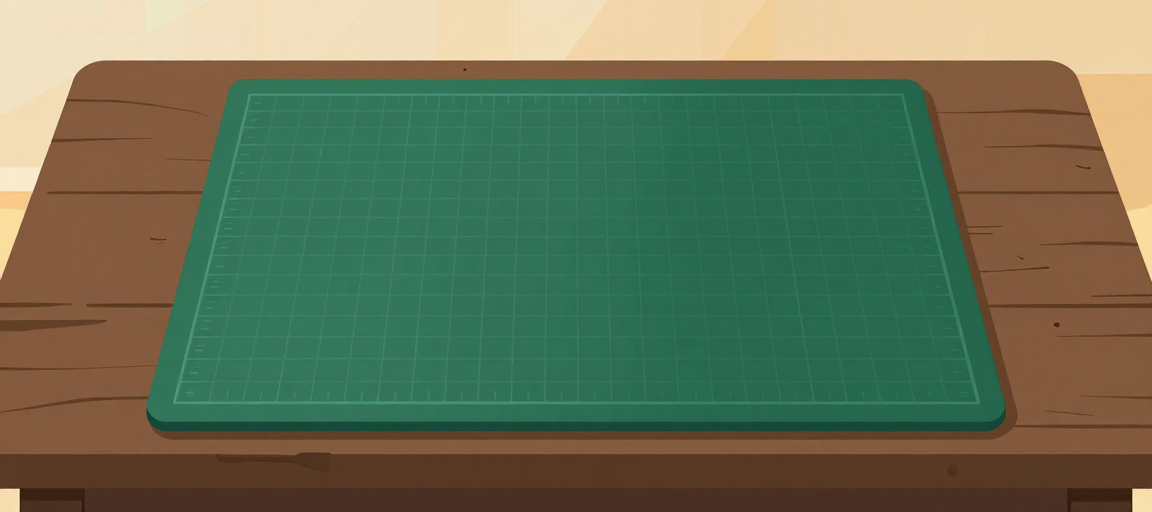
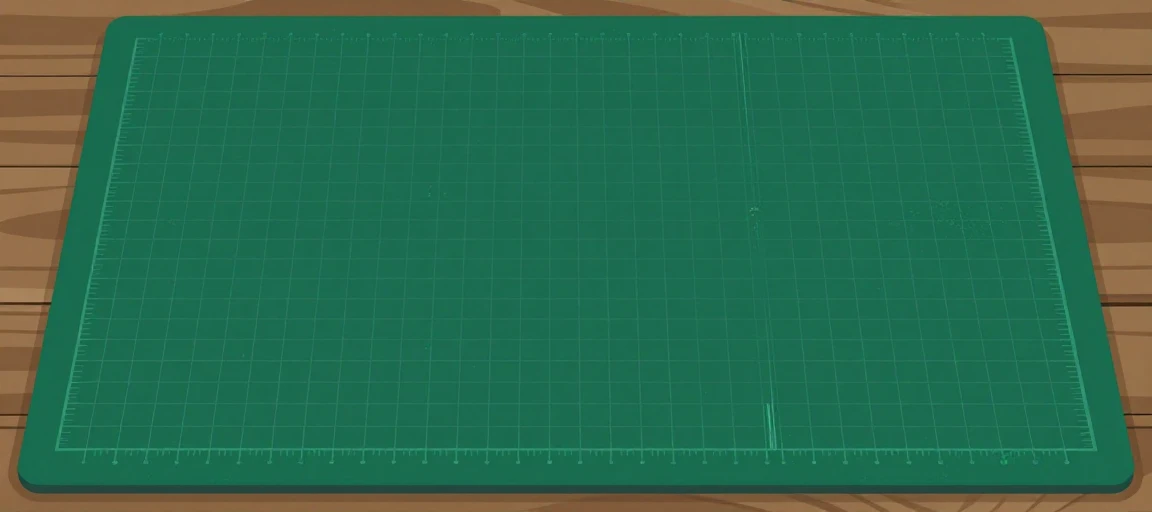
Tisch in Draufsicht, Werkzeuge eine Spur kleiner
Der neue Tisch ist eine echte Draufsicht: die Matte fuellt das Bild,
Holz liegt nur noch am Rand, keine Tischkante und kein Raum dahinter.
Damit stimmt die Perspektive endlich mit den flach liegenden Werkzeugen
ueberein - das war der Bruch, der die Szene nie ganz zusammengehen
liess. Das Bild hat genau das Bannerformat und passt ohne Zoom.

Dazu der Feinschliff: alle Werkzeuge und Kleinteile etwas kleiner, damit
das Geraet die Hauptrolle behaelt, und die Plaetze fuer Kleinteile
weiter weg vom Bildrand, der vorher hineingeschnitten hat.

Claude-Session: https://claude.ai/code/session_01Q2ZpSbwi3hgN4GvdvaUSMh

diff --git a/store/banner/make_desk_banner.py b/store/banner/make_desk_banner.py
@@ -437,14 +437,14 @@ def logo_auf_geraet(uri, platz):
 PLAETZE = [
     ("oben", 426, 64, -17, 14, 10, "lang"),
     ("unten", 300, 294, -5, 22, 8, "lang"),
-    ("links", 86, 208, -78, 12, 12, "kurz"),
+    ("links", 94, 206, -78, 10, 12, "kurz"),
     ("linksoben", 106, 182, -58, 10, 14, "kurz"),
     ("linksunten", 142, 292, 14, 16, 16, "kurz"),
     ("rechts", 458, 210, 66, 12, 16, "kurz"),
     ("kram_oben", 374, 120, 0, 18, 0, "kram"),
     ("kram_untenrechts", 452, 290, 0, 12, 0, "kram"),
     ("kram_untenlinks", 54, 292, 0, 10, 0, "kram"),
-    ("kram_links", 58, 248, 0, 12, 0, "kram"),
+    ("kram_links", 74, 244, 0, 10, 0, "kram"),
 ]
 
 
